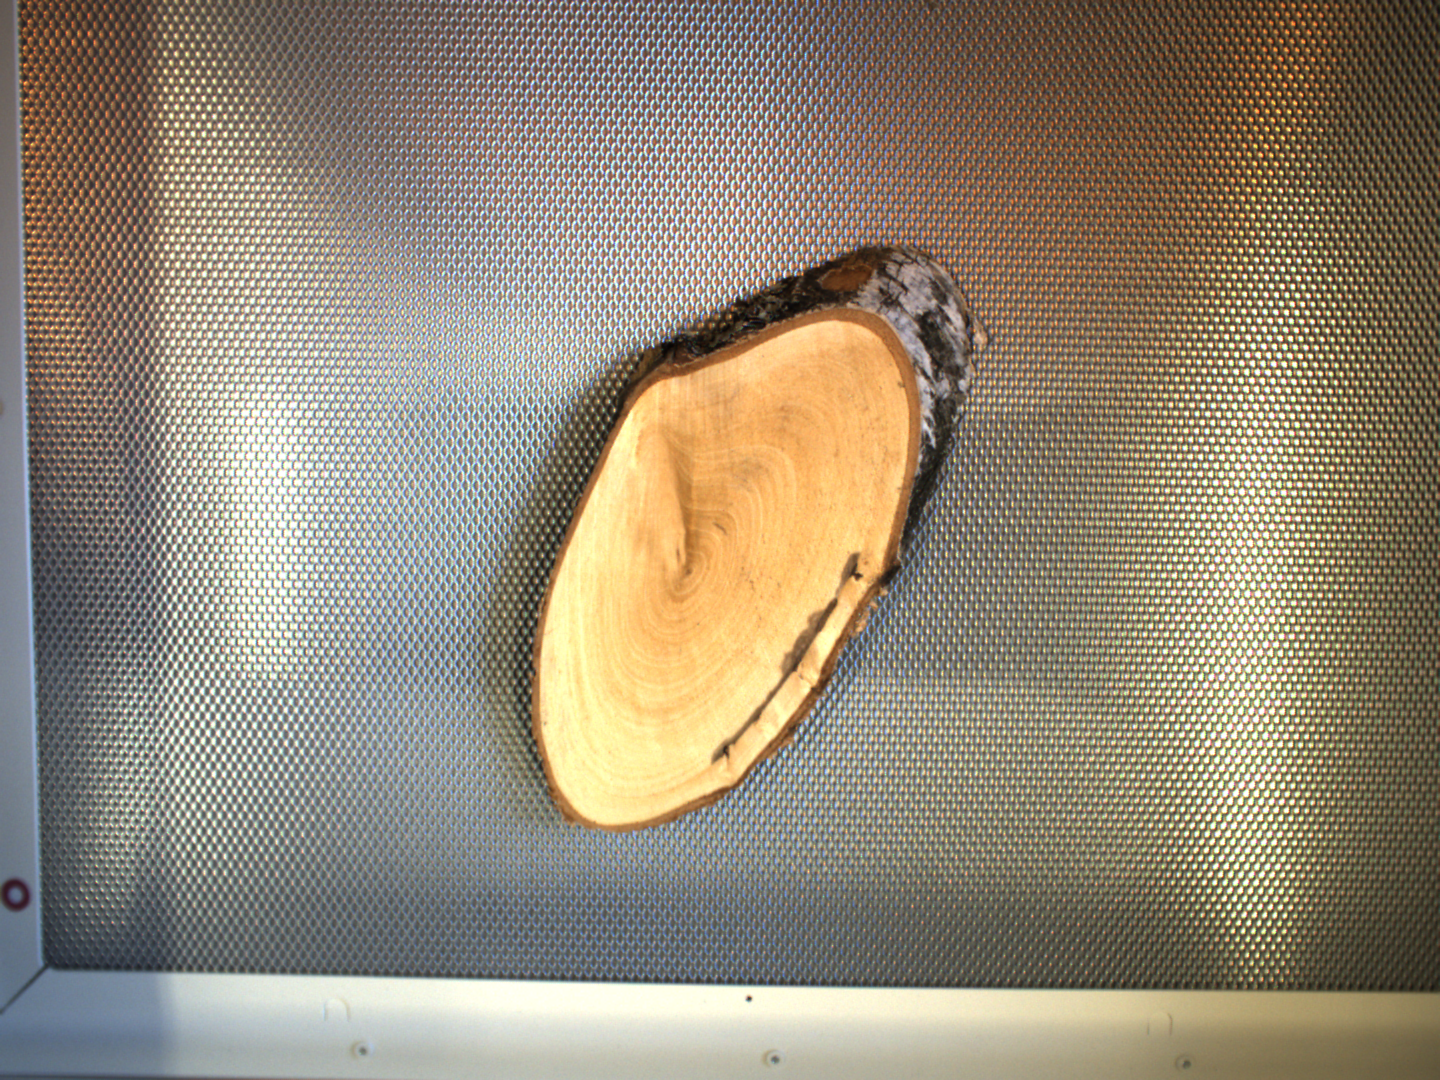
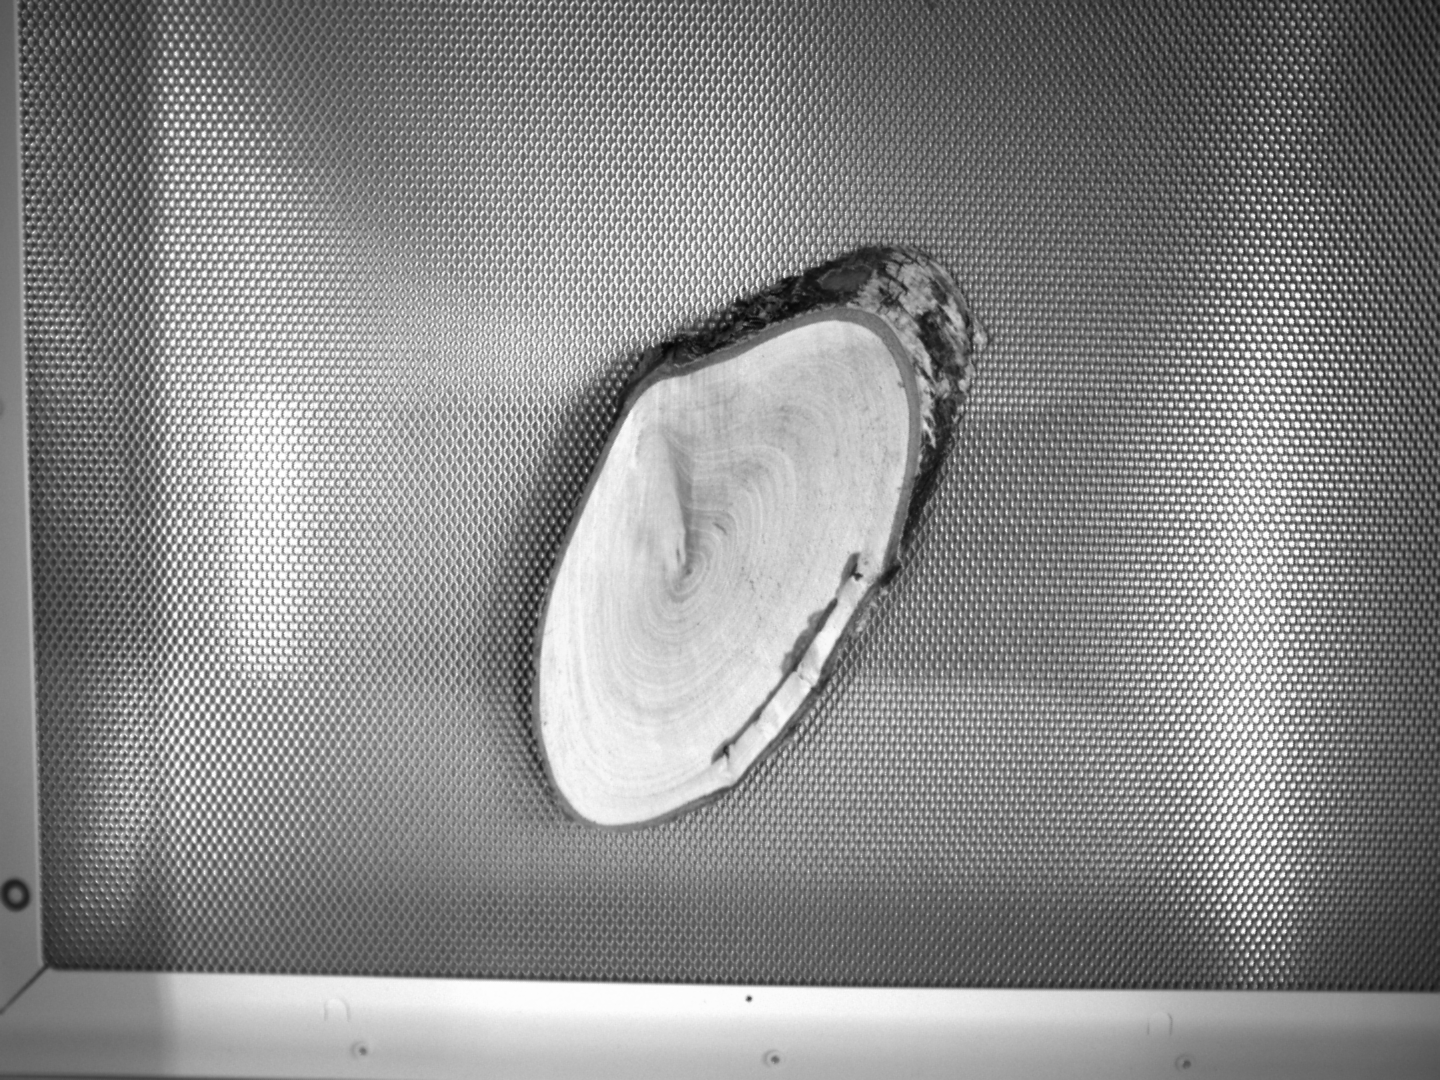
Changing images from colored to Grayscale

diff --git a/gray_2_rgb.py b/gray_2_rgb.py
@@ -1,7 +1,7 @@
 import cv2
 from PIL import Image
 from glob import glob
-images = glob(r'D:\data2\csa\label\\*')
+images = glob(r'.\data2\csa\train\image\\*')
 
 for image in images:
     im = cv2.imread(image, cv2.IMREAD_GRAYSCALE)
